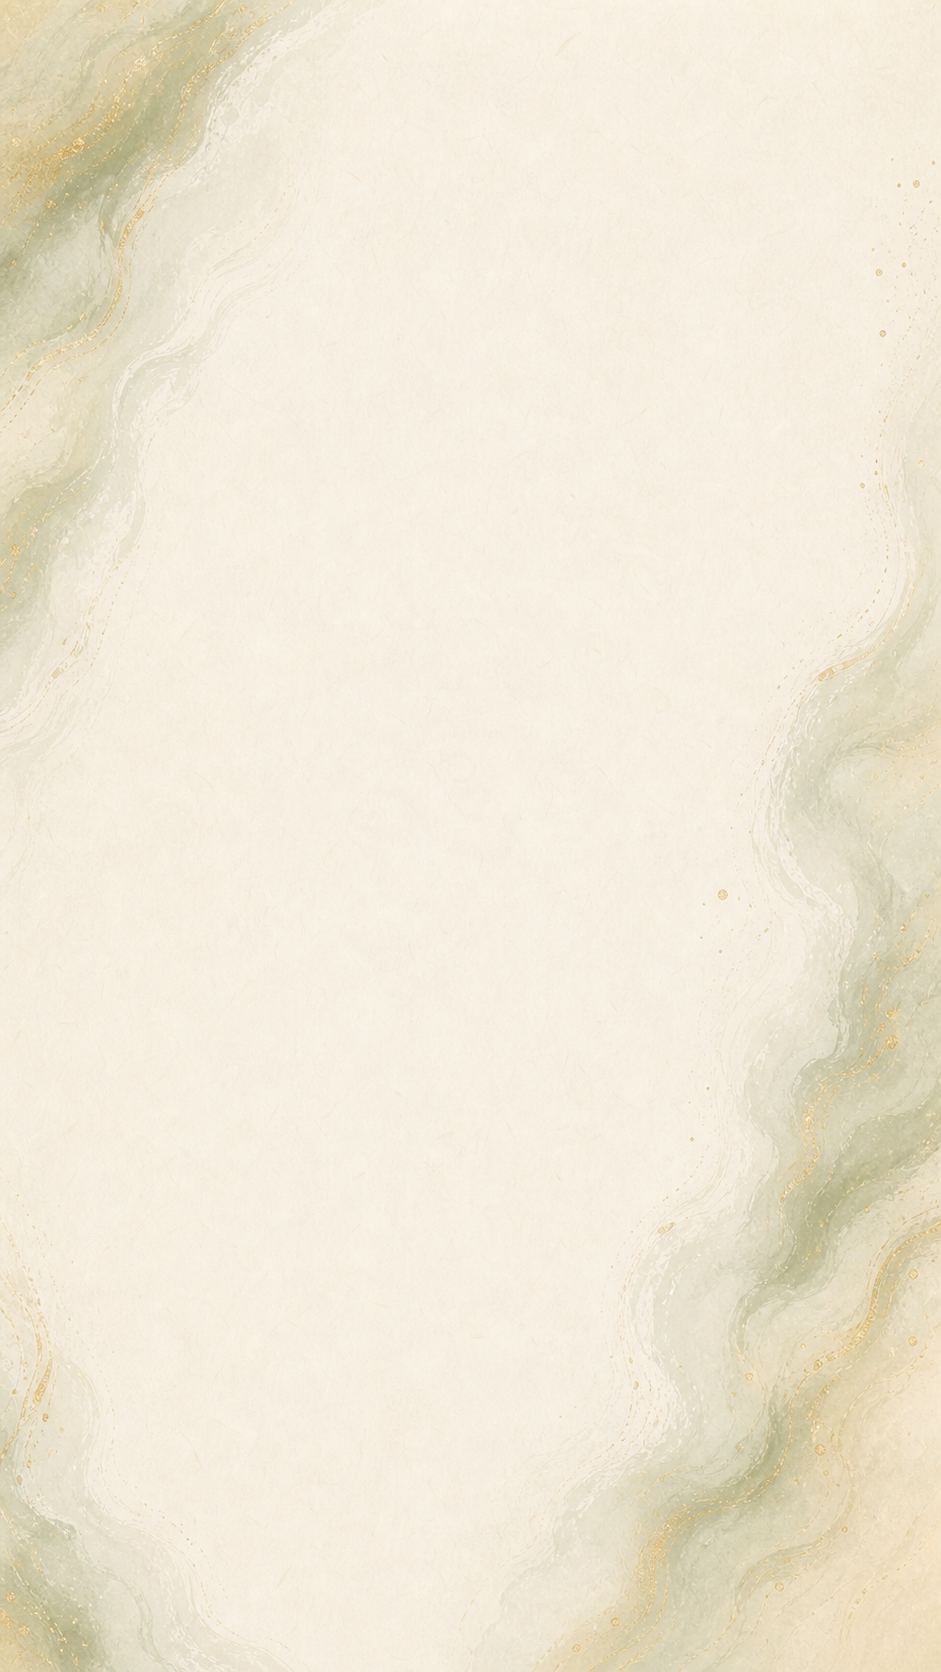
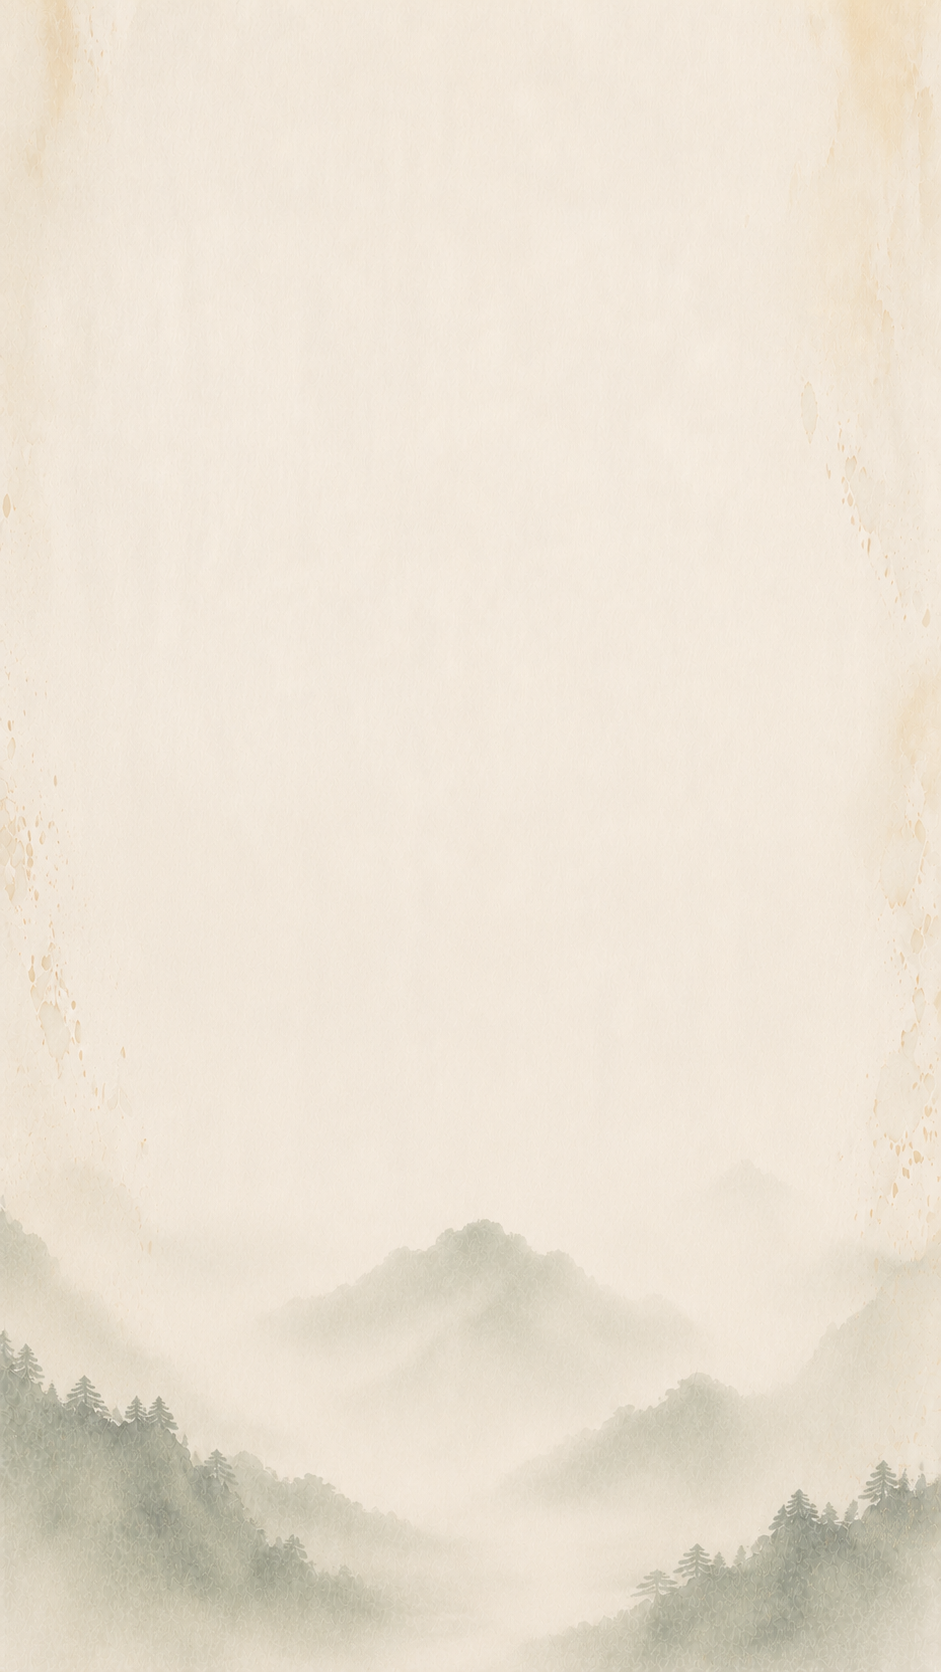
Wire contact form to Google Apps Script and tidy unused pages.
Send /contact submissions to info@urondo.com via Apps Script, keep env secrets local, and remove draft homepage routes.

diff --git a/scripts/google-apps-script/contact-form.js b/scripts/google-apps-script/contact-form.js
@@ -1,0 +1,81 @@
+/**
+ * Paste this into a Google Apps Script project (script.google.com)
+ * logged in as the Workspace user for info@urondo.com.
+ *
+ * Deploy → New deployment → Web app
+ *   Execute as: Me
+ *   Who has access: Anyone
+ *
+ * Then set PUBLIC_CONTACT_FORM_URL and PUBLIC_CONTACT_FORM_TOKEN in the site .env
+ * to match this deployment URL and SHARED_SECRET.
+ */
+
+const TO_EMAIL = "info@urondo.com";
+const FROM_NAME = "株式会社烏龍堂";
+/** Must match PUBLIC_CONTACT_FORM_TOKEN on the website. */
+const SHARED_SECRET = "PASTE_SAME_VALUE_AS_PUBLIC_CONTACT_FORM_TOKEN";
+
+function jsonResponse_(payload) {
+  return ContentService.createTextOutput(JSON.stringify(payload)).setMimeType(
+    ContentService.MimeType.JSON
+  );
+}
+
+function doPost(e) {
+  try {
+    const raw = (e && e.postData && e.postData.contents) || "";
+    const data = JSON.parse(raw || "{}");
+
+    // Honeypot: pretend success so bots do not retry.
+    if (data._gotcha) {
+      return jsonResponse_({ ok: true });
+    }
+
+    if (!data.token || data.token !== SHARED_SECRET) {
+      return jsonResponse_({ ok: false, error: "unauthorized" });
+    }
+
+    const name = String(data["お名前"] || "").trim();
+    const address = String(data["ご住所"] || "").trim();
+    const email = String(data.email || "").trim();
+    const phone = String(data["お電話番号"] || "").trim();
+    const note = String(data["備考"] || "").trim();
+
+    if (!name || !address || !email || !phone || !note) {
+      return jsonResponse_({ ok: false, error: "missing_fields" });
+    }
+
+    if (!/^[^\s@]+@[^\s@]+\.[^\s@]+$/.test(email)) {
+      return jsonResponse_({ ok: false, error: "invalid_email" });
+    }
+
+    const subject = `お問い合わせ - ${FROM_NAME}`;
+    const body = [
+      `お名前: ${name}`,
+      `ご住所: ${address}`,
+      `メールアドレス: ${email}`,
+      `お電話番号: ${phone}`,
+      "",
+      "備考:",
+      note,
+    ].join("\n");
+
+    GmailApp.sendEmail(TO_EMAIL, subject, body, {
+      replyTo: email,
+      name: FROM_NAME,
+    });
+
+    return jsonResponse_({ ok: true });
+  } catch (err) {
+    return jsonResponse_({
+      ok: false,
+      error: "server_error",
+      message: String(err && err.message ? err.message : err),
+    });
+  }
+}
+
+/** Optional health check when opening the Web App URL in a browser. */
+function doGet() {
+  return jsonResponse_({ ok: true, service: "urondo-contact" });
+}

diff --git a/src/content/news.ts b/src/content/news.ts
@@ -12,17 +12,17 @@ export const newsItems: NewsItem[] = [
     title: "2026年秘伝呪符申込受付開始の知らせ",
     href: "/downloads"
   },
-  {
-    date: "2026/8/10",
-    title: "お盆先祖大供養会"
-  },
-  {
-    date: "2026/8/24",
-    title: "黄庭不死法印之生命力空間の講座年間内容のご案内"
-  },
-  {
-    date: "2026/9/1",
-    title: "2026年秋期教室開講案内",
-    href: "/classes"
-  }
+  // {
+  //   date: "2026/8/10",
+  //   title: "お盆先祖大供養会"
+  // },
+  // {
+  //   date: "2026/8/24",
+  //   title: "黄庭不死法印之生命力空間の講座年間内容のご案内"
+  // },
+  // {
+  //   date: "2026/9/1",
+  //   title: "2026年秋期教室開講案内",
+  //   href: "/classes"
+  // }
 ];
